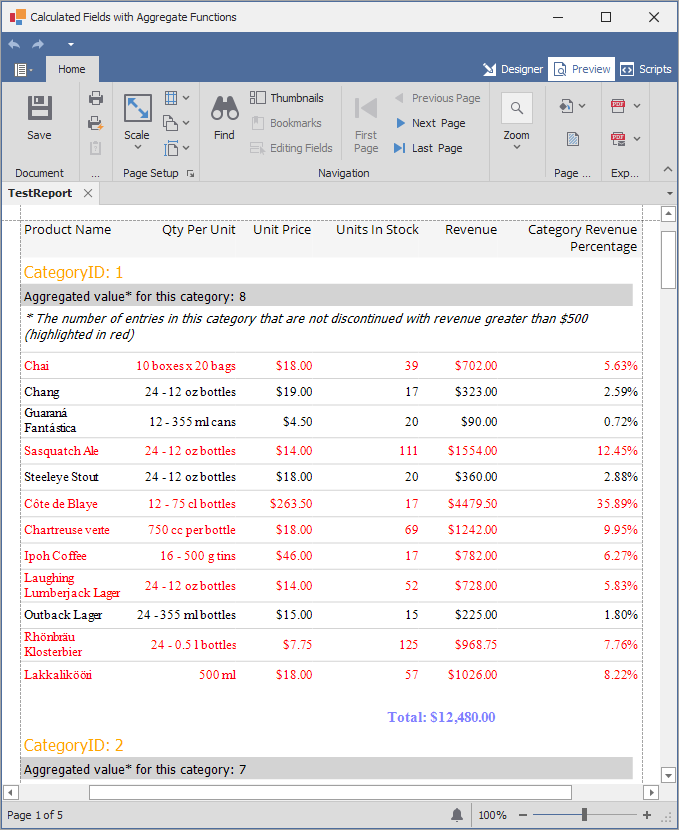
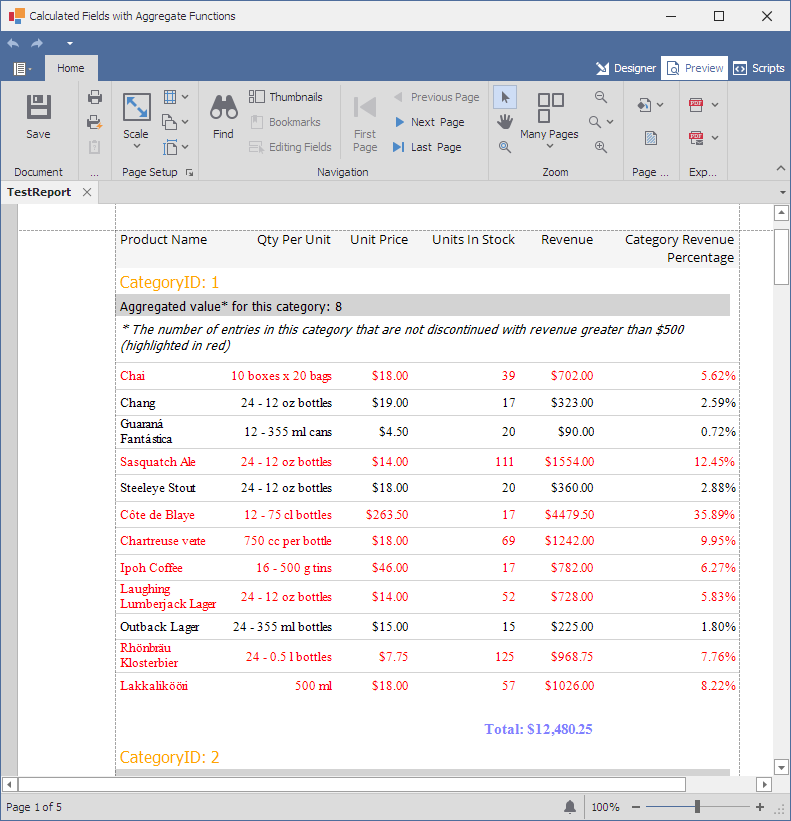
fix the calculated field type

diff --git a/CS/AggregateFunctionCalcFieldExample/TestReport.Designer.cs b/CS/AggregateFunctionCalcFieldExample/TestReport.Designer.cs
@@ -356,7 +356,7 @@ namespace AggregateFunctionCalcFieldExample
             this.GroupFooter1.Controls.AddRange(new DevExpress.XtraReports.UI.XRControl[] {
             this.xrLabel2});
             this.GroupFooter1.GroupUnion = DevExpress.XtraReports.UI.GroupFooterUnion.WithLastDetail;
-            this.GroupFooter1.HeightF = 45.83334F;
+            this.GroupFooter1.HeightF = 45.83335F;
             this.GroupFooter1.Name = "GroupFooter1";
             this.GroupFooter1.StylePriority.UseBorders = false;
             // 
@@ -433,8 +433,8 @@ namespace AggregateFunctionCalcFieldExample
             // calcTotalRevenueByCategory
             // 
             this.calcTotalRevenueByCategory.DataMember = "Products";
-            this.calcTotalRevenueByCategory.Expression = "[][[CategoryID] == [^.CategoryID]].Sum([calcRevenue])";
-            this.calcTotalRevenueByCategory.FieldType = DevExpress.XtraReports.UI.FieldType.Int32;
+            this.calcTotalRevenueByCategory.Expression = "[][[CategoryID] == [^.CategoryID]].Sum([calcRevenue])\n";
+            this.calcTotalRevenueByCategory.FieldType = DevExpress.XtraReports.UI.FieldType.Double;
             this.calcTotalRevenueByCategory.Name = "calcTotalRevenueByCategory";
             // 
             // calcRevenuePercentage
